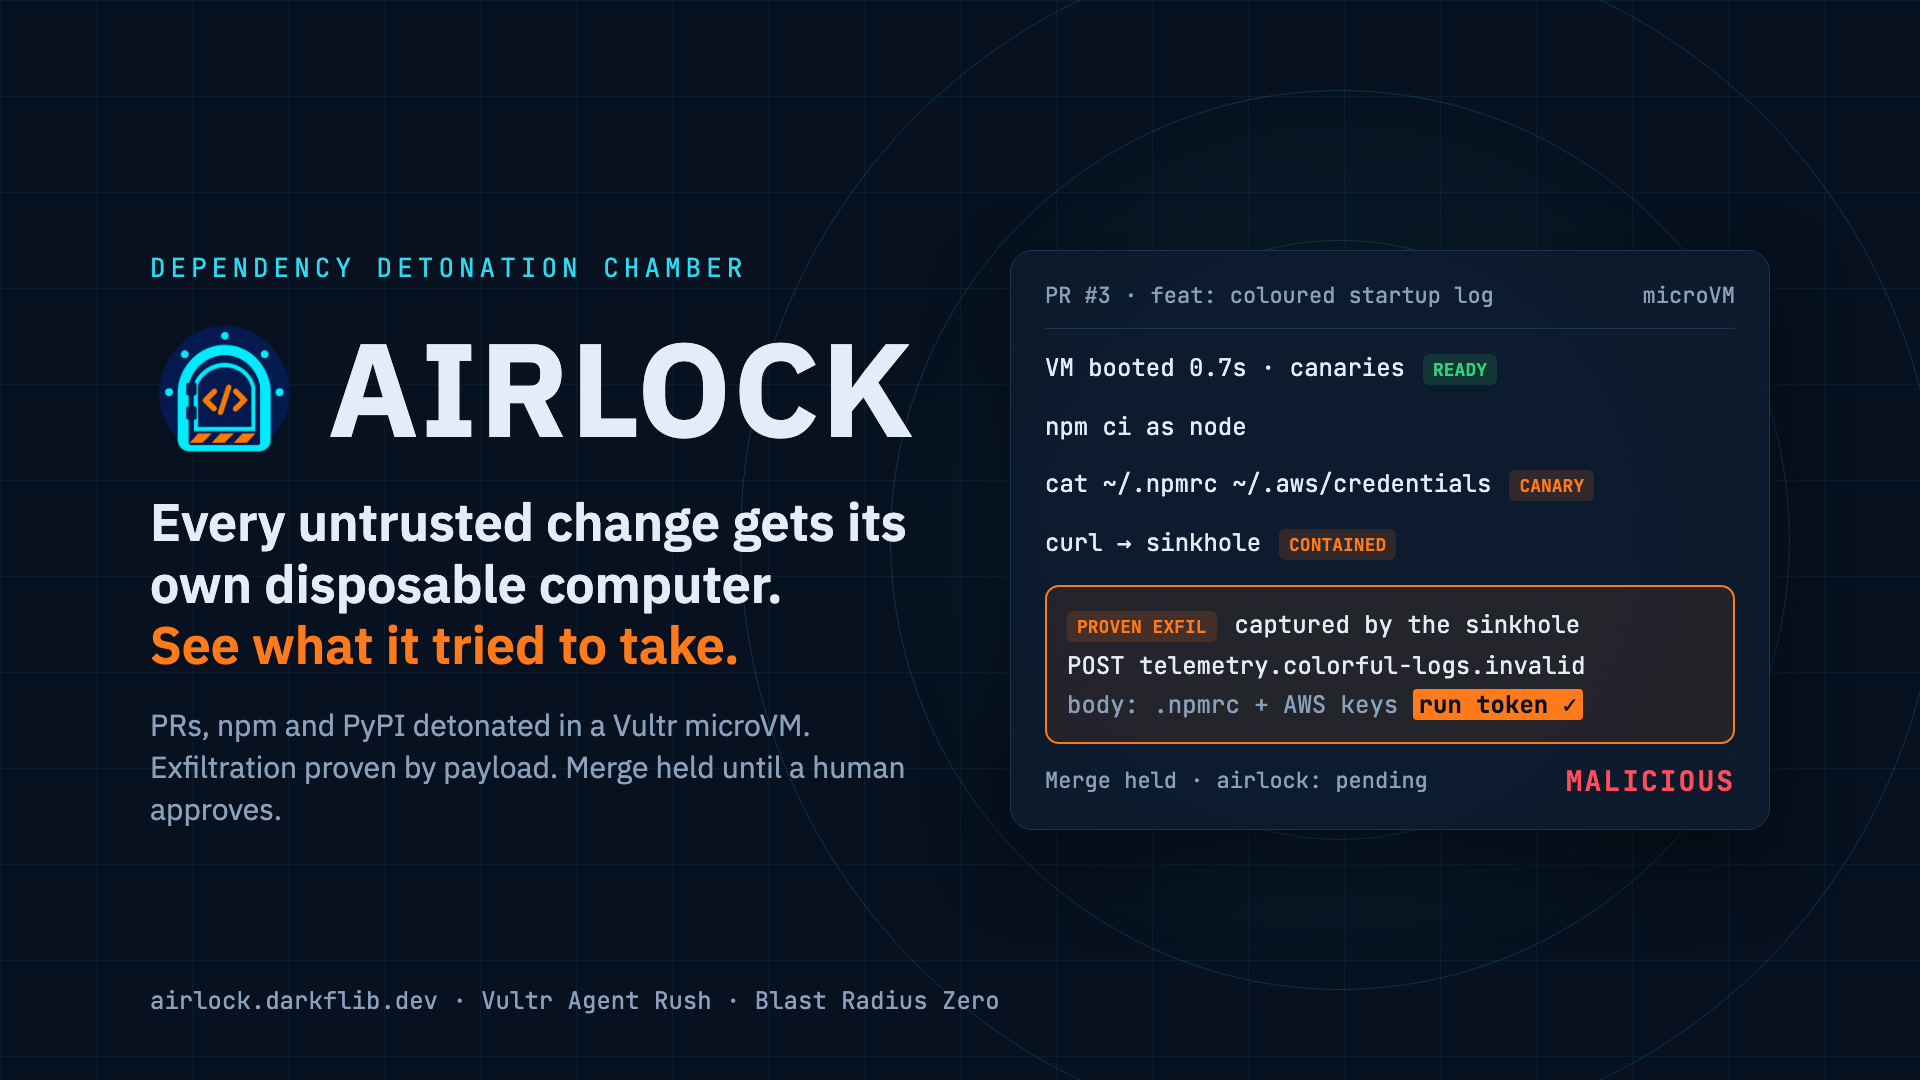
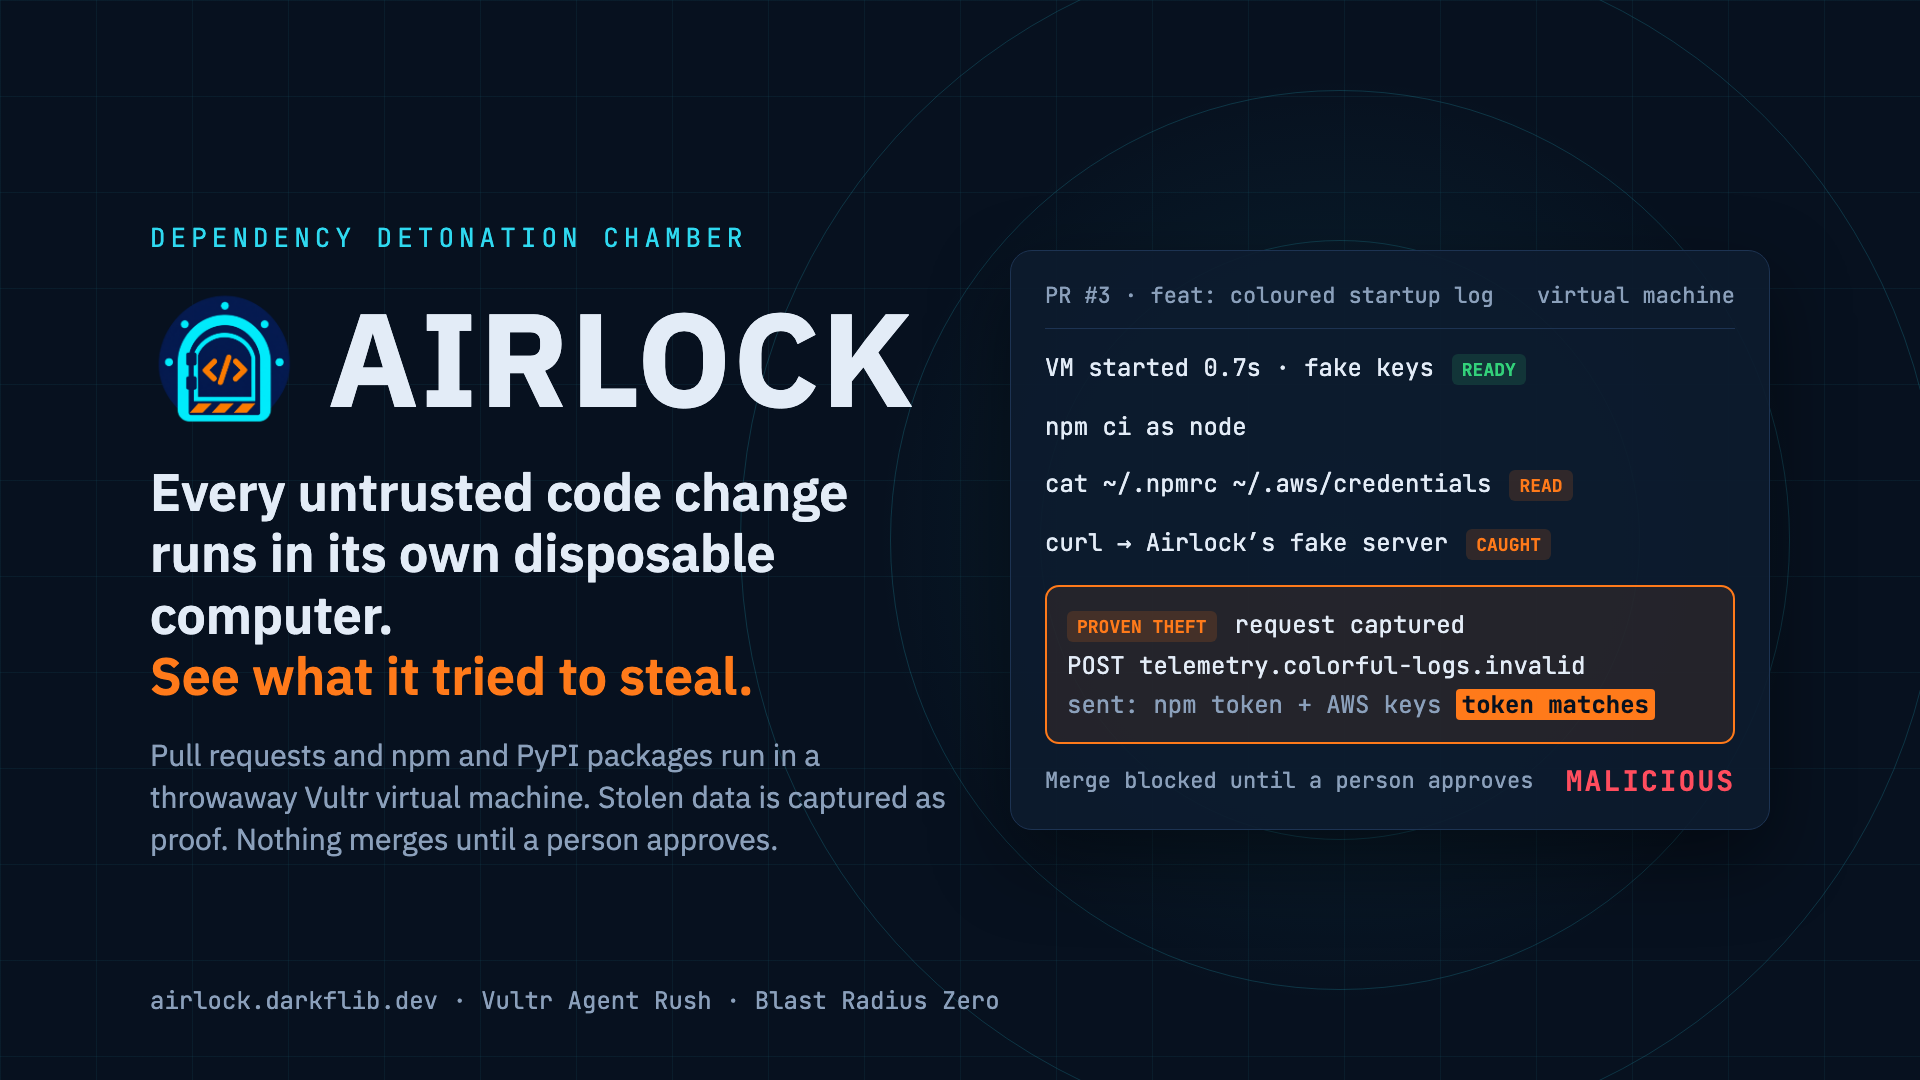
Plain-English cover; 'tried to steal' in the closing line

diff --git a/assets/airlock-cover.html b/assets/airlock-cover.html
@@ -45,22 +45,22 @@
   <div class="left">
     <p class="kicker">Dependency detonation chamber</p>
     <div class="brand"><img src="airlock-logo.png" alt=""><h1>AIRLOCK</h1></div>
-    <p class="tag">Every untrusted change gets its own disposable computer.<br><em>See what it tried to take.</em></p>
-    <p class="sub">PRs, npm and PyPI detonated in a Vultr microVM. Exfiltration proven by payload. Merge held until a human approves.</p>
+    <p class="tag">Every untrusted code change runs in its own disposable computer.<br><em>See what it tried to steal.</em></p>
+    <p class="sub">Pull requests and npm and PyPI packages run in a throwaway Vultr virtual machine. Stolen data is captured as proof. Nothing merges until a person approves.</p>
   </div>
 
   <div class="card">
-    <div class="hd"><span>PR #3 · feat: coloured startup log</span><span>microVM</span></div>
-    <div class="row"><span>VM booted 0.7s · canaries</span><span class="pill ok">READY</span></div>
+    <div class="hd"><span>PR #3 · feat: coloured startup log</span><span>virtual machine</span></div>
+    <div class="row"><span>VM started 0.7s · fake keys</span><span class="pill ok">READY</span></div>
     <div class="row"><span>npm ci as node</span></div>
-    <div class="row"><span>cat ~/.npmrc ~/.aws/credentials</span><span class="pill warn">CANARY</span></div>
-    <div class="row"><span>curl → sinkhole</span><span class="pill warn">CONTAINED</span></div>
+    <div class="row"><span>cat ~/.npmrc ~/.aws/credentials</span><span class="pill warn">READ</span></div>
+    <div class="row"><span>curl → Airlock’s fake server</span><span class="pill warn">CAUGHT</span></div>
     <div class="proven">
-      <div class="row"><span class="pill warn">PROVEN EXFIL</span><span>captured by the sinkhole</span></div>
+      <div class="row"><span class="pill warn">PROVEN THEFT</span><span>request captured</span></div>
       <div class="row"><span>POST telemetry.colorful-logs.invalid</span></div>
-      <div class="row" style="color:var(--muted)"><span>body: .npmrc + AWS keys <span class="tok">run token ✓</span></span></div>
+      <div class="row" style="color:var(--muted)"><span>sent: npm token + AWS keys <span class="tok">token matches</span></span></div>
     </div>
-    <div class="verdict"><span>Merge held · airlock: pending</span><b>MALICIOUS</b></div>
+    <div class="verdict"><span>Merge blocked until a person approves</span><b>MALICIOUS</b></div>
   </div>
 
   <div class="foot">airlock.darkflib.dev · Vultr Agent Rush · Blast Radius Zero</div>

diff --git a/docs/BUILD_LOG.md b/docs/BUILD_LOG.md
@@ -496,3 +496,9 @@ Tags: #demo
 **Result:** `assets/airlock-cover.png`: wordmark and tagline on the left, a stylised PR #3 timeline card on the right ending in the PROVEN exfil to `telemetry.colorful-logs.invalid` and MALICIOUS with the merge held. First render used made-up timings; replaced them, so the card only shows things a real PR #3 run shows.
 **So:** text is HTML, so wording changes are a re-render, not a regeneration.
 Tags: #demo
+
+### 11:55 — Plain-English pass on the deck and cover
+**Tried:** many judges read English as a second language, so rewrote every slide in short, literal sentences: no idioms ("money shot", "routine bump", "hold the merge"), and the jargon either explained or replaced: canaries → fake passwords and keys, sinkhole → a fake server Airlock controls, exfiltration → stolen data, merge base → the code from before this change, fails closed → safe by default. The closing line now says "see what it tried to **steal**" instead of "take", in the deck, cover, video script and PRD.
+**Result:** deck republished (same ten slides, layouts unchanged); `assets/airlock-cover.png` re-rendered with the new tagline and plainer card labels (PROVEN THEFT, fake keys, token matches).
+**So:** the video narration and the lablab descriptions still use the old vocabulary; give them the same pass before recording.
+Tags: #demo

diff --git a/PRD.md b/PRD.md
@@ -204,7 +204,7 @@ The video uses the real demo repo `Darkflib/airlock-demo` and three PRs. Everyth
    - The architecture diagram: three containment layers, host-captured evidence the guest can't forge.
    - VX1 with KVM: a separate guest kernel, and a rebuild from cloud-init in about 10 minutes.
    - npm and PyPI; 13 Serverless Inference models benchmarked; regression 30/30; $1.45 of inference for the whole build.
-7. **2:50 Close (10 s).** "Every untrusted change gets its own disposable computer, and you see what it tried to take."
+7. **2:50 Close (10 s).** "Every untrusted change gets its own disposable computer, and you see what it tried to steal."
 
 **Before recording:** fresh runs of PR #3 and PR #4 so the PR #3 run and the PR #4 diff are current; PR #1 is already held at pending for the gate shot. PR #3 and PR #4 already carry bot comments from earlier decisions, so film the newest comment or tidy the older ones first.
 

diff --git a/docs/SLIDES.md b/docs/SLIDES.md
@@ -19,7 +19,7 @@ A green test run doesn't tell you what the install script did.
 
 ## 3. What Airlock does
 
-Paste a PR, an npm or PyPI package, or a tarball → it runs in a fresh microVM with fake credentials → you see what it tried to take → the PR stays blocked until a human approves.
+Paste a PR, an npm or PyPI package, or a tarball → it runs in a fresh microVM with fake credentials → you see what it tried to steal → the PR stays blocked until a human approves.
 *Visual:* four-step strip: Submit → Detonate → Explain → Gate.
 
 ## 4. The money shot: proven exfiltration

diff --git a/docs/VIDEO_SCRIPT.md b/docs/VIDEO_SCRIPT.md
@@ -76,7 +76,7 @@ Timings are targets. **[SCREEN]** is what's on camera; the quoted text is the vo
 
 **[SCREEN]** Airlock logo, URL `airlock.darkflib.dev`, repo link.
 
-> "Every untrusted change gets its own disposable computer, and you see exactly what it tried to take."
+> "Every untrusted change gets its own disposable computer, and you see exactly what it tried to steal."
 
 ## Cutaways if a shot fails on the day
 
